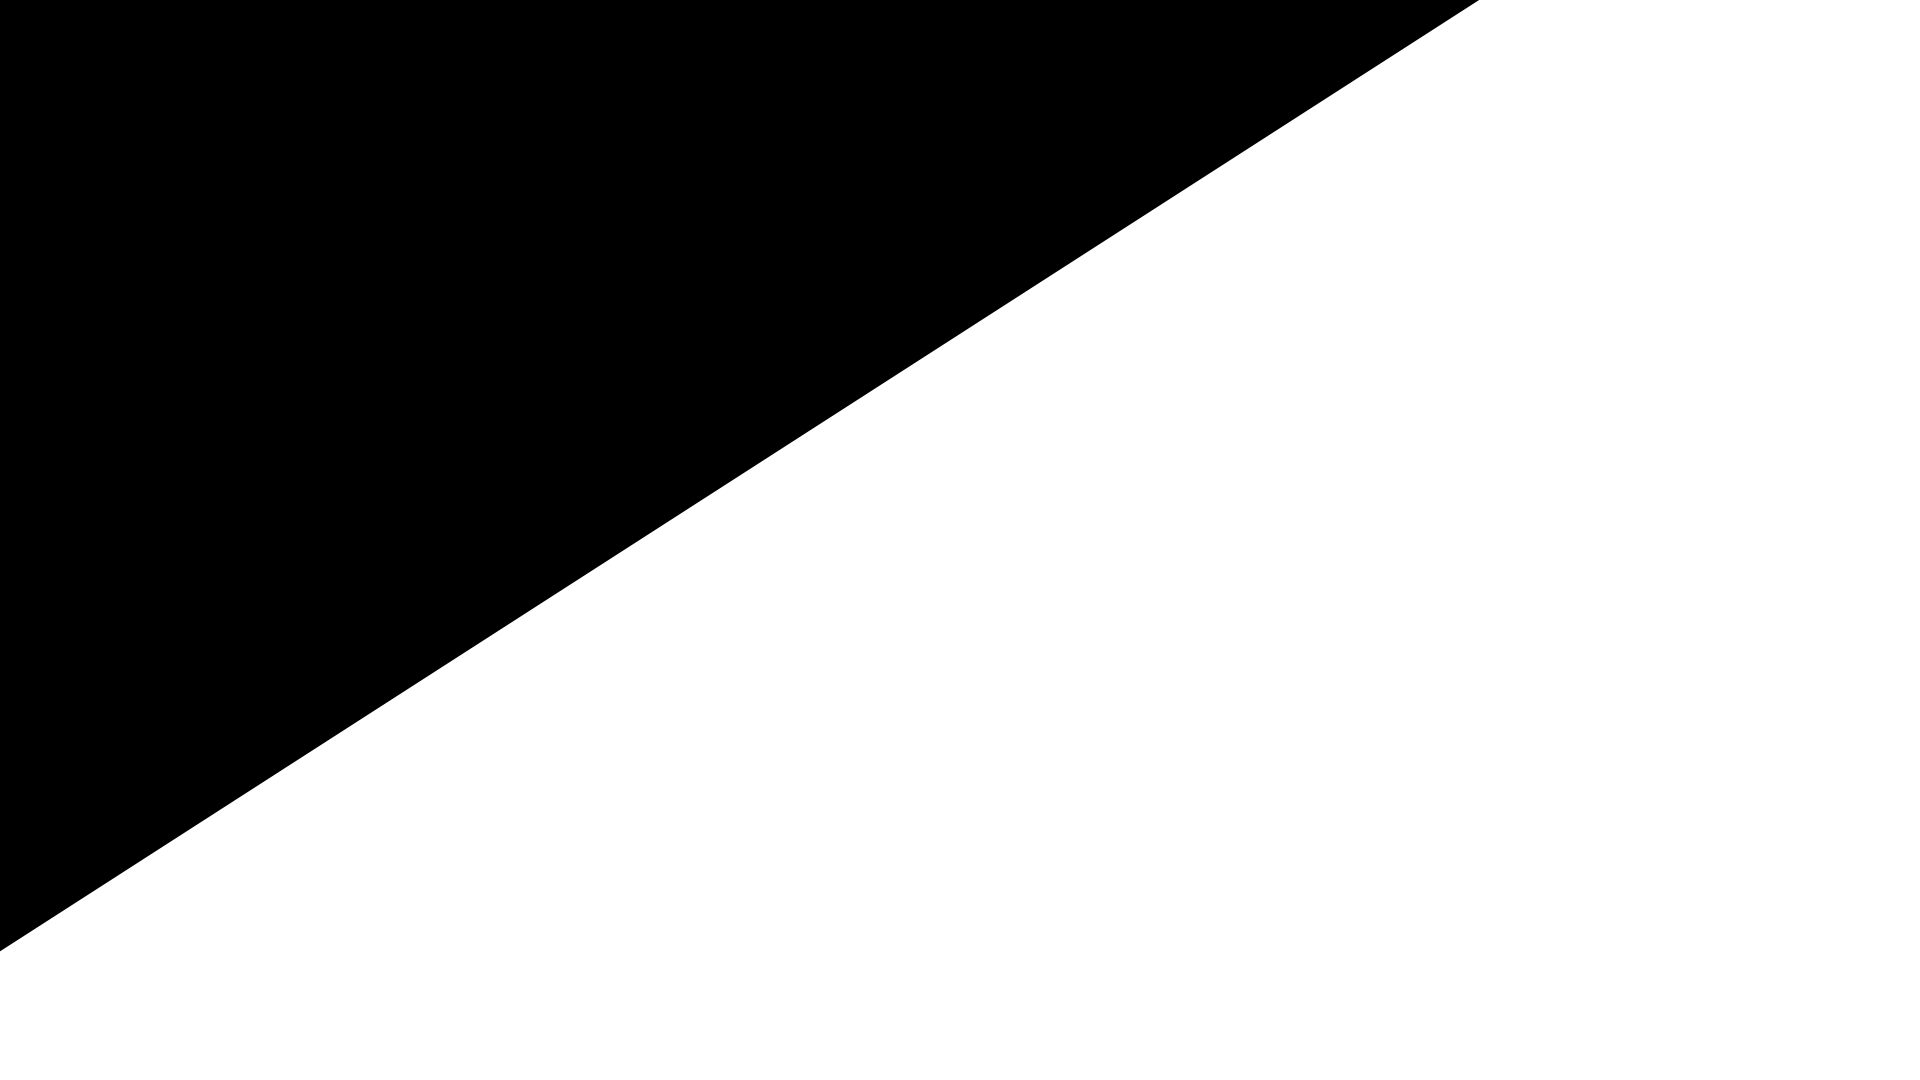
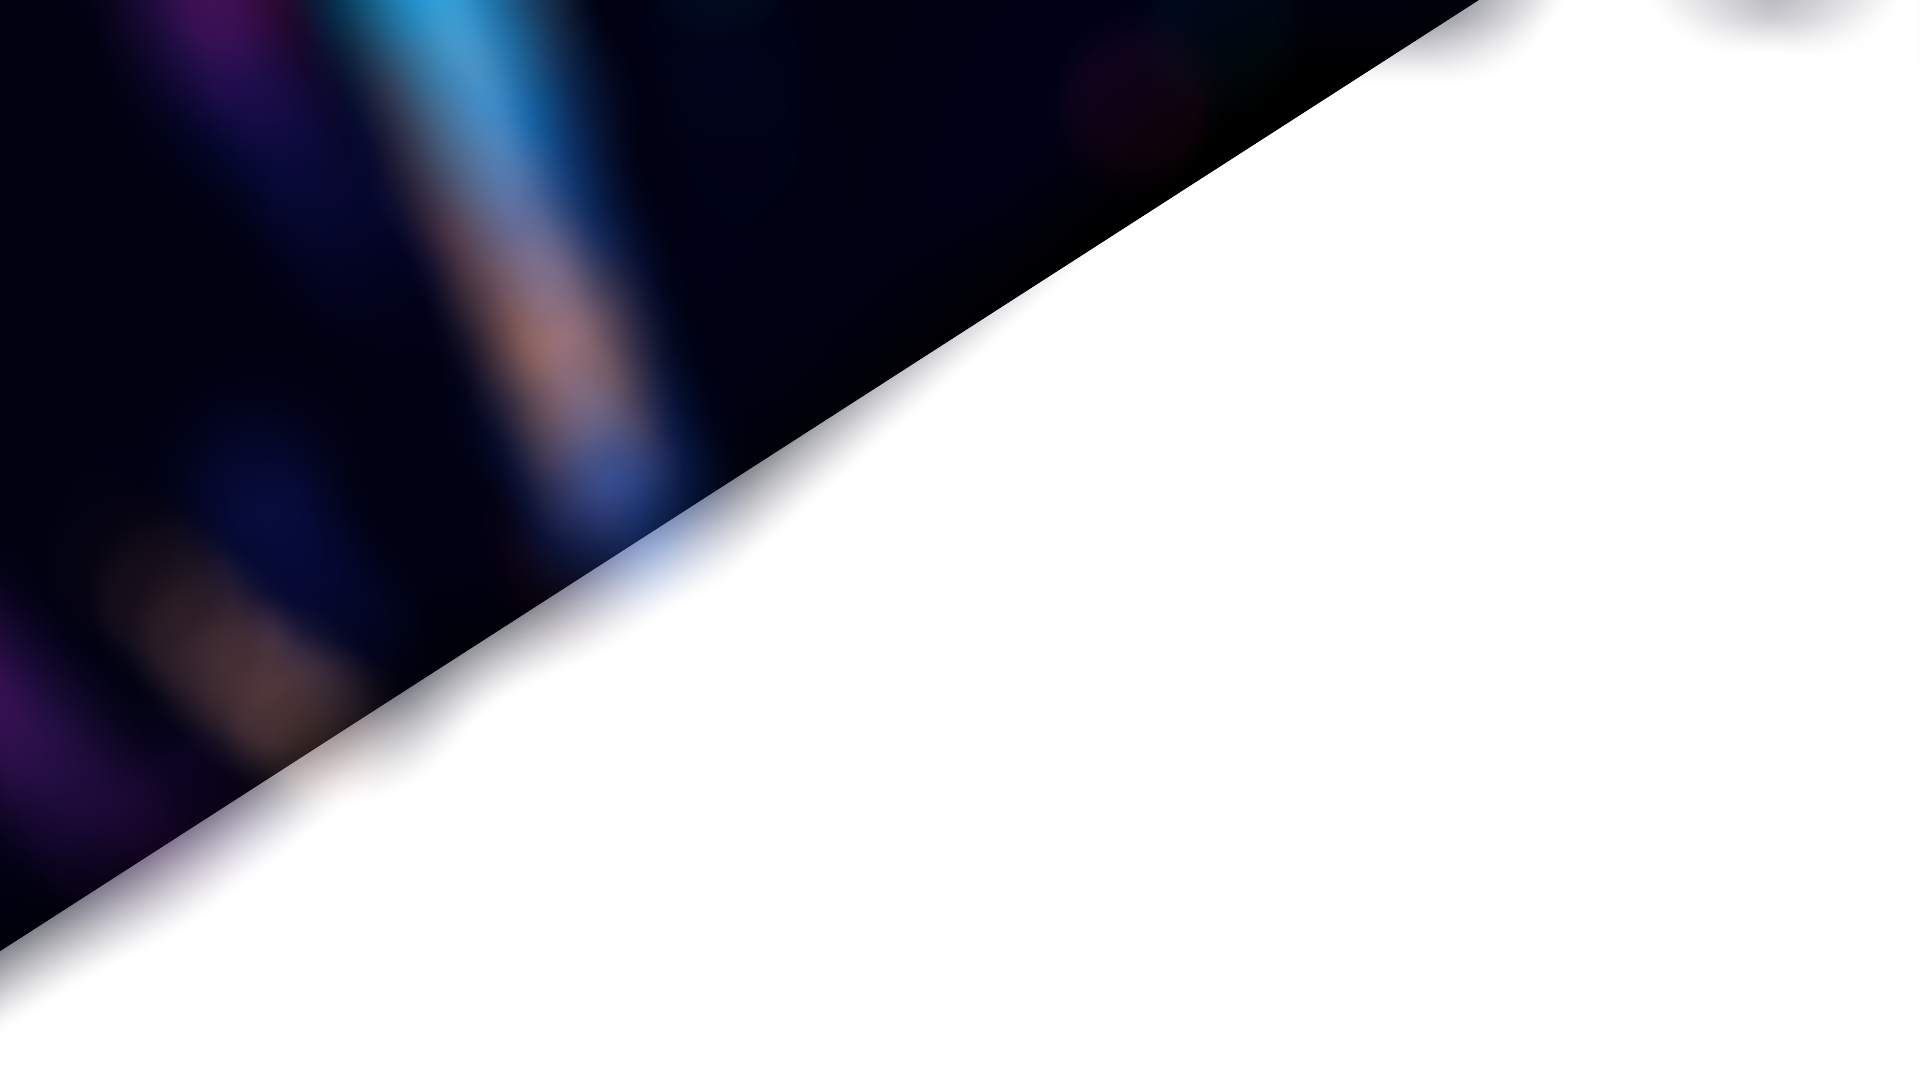
- Worked on first page

diff --git a/app/page.tsx b/app/page.tsx
@@ -263,23 +263,40 @@ export default function HomePage() {
       </section>
 
     {/* Vision & Mission */}
-    <section id="vision-mission" className="bg-neutral-900 py-20 px-4 text-white font-solemn">
+    <section
+        id="vision-mission"
+        className="py-20 px-4 text-white font-solemn"
+        style={{
+            backgroundImage: "url('/Section_BackgroundStyle1.png')",
+            backgroundSize: "cover",
+            backgroundPosition: "center",
+        }}
+    >
         <div className="max-w-7xl mx-auto">
-            <div className="ml-auto max-w-2xl">
-                <div className="space-y-12">
-                    <div className="fade-in text-left">
-                        <h3 className="text-4xl sm:text-5xl font-semibold mb-4">OUR MISSION</h3>
-                        <p className="text-lg sm:text-xl text-white/90 leading-relaxed">
-                            To fuse world-class engineering with high-concept artistry to build digital products that offer true
-                            ownership, mechanical depth, and unparalleled visual fidelity.
-                        </p>
-                    </div>
-                    <div className="fade-in text-left">
-                        <h3 className="text-4xl sm:text-5xl font-semibold mb-4">OUR VISION</h3>
-                        <p className="text-lg sm:text-xl text-white/90 leading-relaxed">
-                            To become the primary architectural bridge between traditional high-end entertainment and the
-                            decentralized future.
-                        </p>
+            <div className="flex flex-col gap-8 md:flex-row md:items-end">
+                <div className="flex justify-center md:justify-start md:self-end md:-mt-4">
+                    <img
+                        src="/T_Rock_14.PNG"
+                        alt=""
+                        className="h-auto w-full max-w-[360px] object-contain md:h-auto md:w-auto md:max-h-[520px] md:max-w-[520px]"
+                    />
+                </div>
+                <div className="flex-1 md:max-w-2xl pb-20">
+                    <div className="space-y-12">
+                        <div className="fade-in text-left">
+                            <h3 className="text-4xl sm:text-5xl font-semibold mb-4">OUR MISSION</h3>
+                            <p className="text-lg sm:text-xl text-white/90 leading-relaxed">
+                                To fuse world-class engineering with high-concept artistry to build digital products that offer true
+                                ownership, mechanical depth, and unparalleled visual fidelity.
+                            </p>
+                        </div>
+                        <div className="fade-in text-left">
+                            <h3 className="text-4xl sm:text-5xl font-semibold mb-4">OUR VISION</h3>
+                            <p className="text-lg sm:text-xl text-white/90 leading-relaxed">
+                                To become the primary architectural bridge between traditional high-end entertainment and the
+                                decentralized future.
+                            </p>
+                        </div>
                     </div>
                 </div>
             </div>
@@ -333,15 +350,26 @@ export default function HomePage() {
       </section>
         
       {/* Our Team */}
-      <section id="our-team" className="py-20 px-4">
-        <div className="max-w-7xl mx-auto">
+      <section
+        id="our-team"
+        className="relative py-20 px-4"
+        style={{
+          backgroundImage: "url('/Section_Background_RockwellBuildings.png')",
+          backgroundSize: "cover",
+          backgroundPosition: "center",
+          backgroundAttachment: "fixed",
+        }}
+      >
+        <div className="absolute inset-0 bg-neutral-900/70" />
+        <div className="relative z-10 max-w-7xl mx-auto">
           <div className="text-center mb-12 fade-in">
             <h2 className="text-5xl font-bold mb-4 text-balance">OUR TEAM</h2>
             <p className="text-xl text-muted-foreground max-w-2xl mx-auto text-pretty">
               Meet the people shaping our games and experiences.
             </p>
           </div>
-          <div className="grid grid-cols-1 sm:grid-cols-2 lg:grid-cols-4 gap-6">
+          {/*<div className="grid grid-cols-2 justify-items-center gap-4 sm:grid-cols-2 md:justify-items-center md:gap-6 lg:grid-cols-4 lg:justify-items-stretch">*/}
+          <div className="grid grid-cols-2 justify-items-center gap-4 sm:gap-4 sm:justify-items-center sm:grid-cols-2 md:justify-items-center md:grid-cols-4 md:gap-6 lg:grid-cols-4 lg:justify-items-stretch">
             {[
               {
                 name: "CECILLE VILLENA",
@@ -366,17 +394,17 @@ export default function HomePage() {
             ].map((member) => (
               <div
                 key={member.name}
-                className="fade-in flex h-full flex-col overflow-hidden rounded-2xl border border-border/60 shadow-lg shadow-black/10"
+                className="fade-in flex h-full w-full max-w-[160px] flex-col overflow-hidden rounded-2xl border border-border/60 shadow-lg shadow-black/10 sm:max-w-[200px] md:max-w-none"
               >
-                <div className="relative aspect-[6/6] w-full overflow-hidden">
+                <div className="relative aspect-[4/5] w-full overflow-hidden md:aspect-[6/6]">
                   <img
                     src={member.image}
                     alt={member.name}
                     className="h-full w-full object-cover"
                   />
                   <div className="absolute inset-x-0 bottom-0 bg-gradient-to-t from-black/70 via-black/30 to-transparent p-4 text-left">
-                    <p className="text-lg font-semibold text-white">{member.name}</p>
-                    <p className="mt-1 text-xs uppercase tracking-[0.2em] text-white/80">
+                    <p className="text-sm font-semibold text-white md:text-lg">{member.name}</p>
+                    <p className="mt-1 text-[10px] uppercase tracking-[0.18em] text-white/80 md:text-xs">
                       {member.title}
                     </p>
                   </div>

diff --git a/components/baselayout/SiteChrome.tsx b/components/baselayout/SiteChrome.tsx
@@ -1,8 +1,8 @@
-"use client"
+"use client"
 
 import { useEffect, useState } from "react"
 import Link from "next/link"
-import { Menu, X, Twitter, Youtube, Twitch, Instagram, ChevronDown } from "lucide-react"
+import { Menu, X, ChevronDown } from "lucide-react"
 
 type SiteChromeProps = {
   children: React.ReactNode
@@ -235,84 +235,42 @@ export default function SiteChrome({ children }: SiteChromeProps) {
       {children}
 
       {/* Footer */}
-      <footer className="bg-card border-t border-border py-12">
-        <div className="max-w-7xl mx-auto px-4">
-          <div className="grid grid-cols-1 md:grid-cols-4 gap-8">
-            <div>
-              <div className="text-2xl font-bold text-primary mb-4">NEXUS</div>
-              <p className="text-muted-foreground text-pretty">
-                Creating extraordinary gaming experiences that bring players together from around the world.
+      <footer className="relative overflow-hidden bg-black text-white">
+        <div className="absolute inset-0">
+          <div className="absolute inset-0 bg-gradient-to-r from-black via-black/95 to-black/40" />
+          <div className="absolute right-0 top-0 hidden h-full w-[80%] lg:block">
+            <img
+              src="/footer_side.png"
+              alt=""
+              className="h-full w-full object-cover opacity-60 transition-opacity duration-500"
+            />
+            <div className="absolute inset-0 bg-gradient-to-r from-black via-black/100 to-transparent" />
+          </div>
+        </div>
+
+        <div className="relative w-full px-0 py-10 pl-[5px]">
+          <div className="flex items-center gap-3 sm:gap-4 md:gap-6">
+            <div className="flex h-20 w-20 items-center justify-center bg-black/40 sm:h-24 sm:w-24 md:h-56 md:w-56">
+              <img src="/mainicon.png" alt="MaochiGames" className="h-14 w-auto sm:h-16 md:h-40" />
+            </div>
+            <div className="max-w-xl space-y-2 text-xs text-white/85 sm:text-sm">
+              <p className="text-lg font-semibold text-white sm:text-4xl md:text-4xl">MAOCHIGAMES</p>
+              {/*<p>
+                19th Floor, OMM Citra Bldg., 39 San Miguel Avenue,
+                <br />
+                Brgy. San Antonio, Pasig City, Philippines 1605
+              </p>*/}
+              <p>
+                Level 24 One Bonifacio High Street,
+                <br />
+                Bonifacio Global City, Philippines 1634
               </p>
-            </div>
-
-            <div>
-              <h3 className="font-semibold mb-4">Games</h3>
-              <ul className="space-y-2 text-muted-foreground">
-                <li>
-                  <a href="#" className="hover:text-primary transition-colors">
-                    Legends of Nexus
-                  </a>
-                </li>
-                <li>
-                  <a href="#" className="hover:text-primary transition-colors">
-                    Shadow Realm
-                  </a>
-                </li>
-                <li>
-                  <a href="#" className="hover:text-primary transition-colors">
-                    Cyber Strike
-                  </a>
-                </li>
-              </ul>
-            </div>
-
-            <div>
-              <h3 className="font-semibold mb-4">Company</h3>
-              <ul className="space-y-2 text-muted-foreground">
-                <li>
-                  <a href="#" className="hover:text-primary transition-colors">
-                    About Us
-                  </a>
-                </li>
-                <li>
-                  <a href="#" className="hover:text-primary transition-colors">
-                    Careers
-                  </a>
-                </li>
-                <li>
-                  <a href="#" className="hover:text-primary transition-colors">
-                    Press
-                  </a>
-                </li>
-                <li>
-                  <Link href="/contact" className="hover:text-primary transition-colors">
-                    Contact
-                  </Link>
-                </li>
-              </ul>
-            </div>
-
-            <div>
-              <h3 className="font-semibold mb-4">Follow Us</h3>
-              <div className="flex space-x-4">
-                <a href="#" className="text-muted-foreground hover:text-primary transition-colors">
-                  <Twitter size={24} />
-                </a>
-                <a href="#" className="text-muted-foreground hover:text-primary transition-colors">
-                  <Youtube size={24} />
-                </a>
-                <a href="#" className="text-muted-foreground hover:text-primary transition-colors">
-                  <Twitch size={24} />
-                </a>
-                <a href="#" className="text-muted-foreground hover:text-primary transition-colors">
-                  <Instagram size={24} />
-                </a>
-              </div>
+              <p className="text-lg text-white/70">contact@maochigames.com</p>
             </div>
           </div>
 
-          <div className="border-t border-border mt-8 pt-8 text-center text-muted-foreground">
-            <p>&copy; 2024 Nexus Gaming. All rights reserved.</p>
+          <div className="mt-3 ml-5 text-xs text-white/50 sm:mt-2 sm:ml-5 sm:text-base md:-mt-2 md:ml-10">
+            © 2025 MaochiGames. Philippines. All Rights Reserved.
           </div>
         </div>
       </footer>
